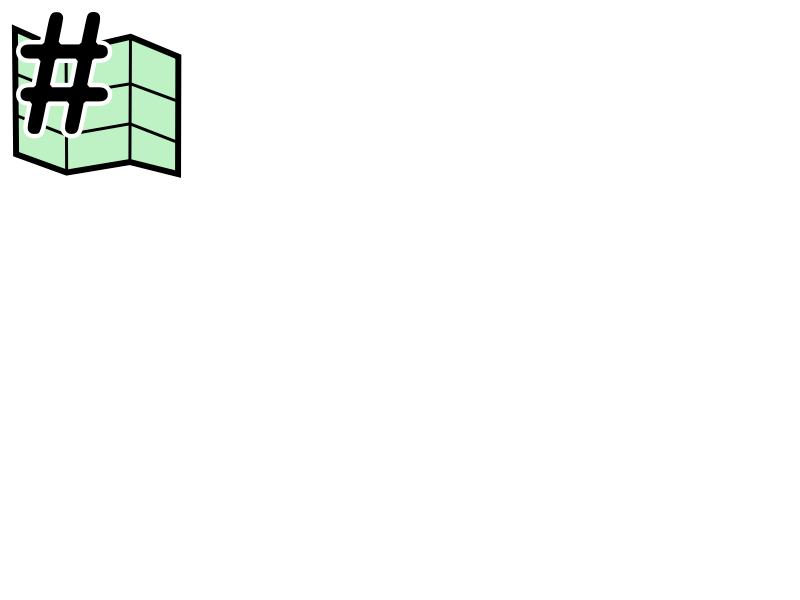
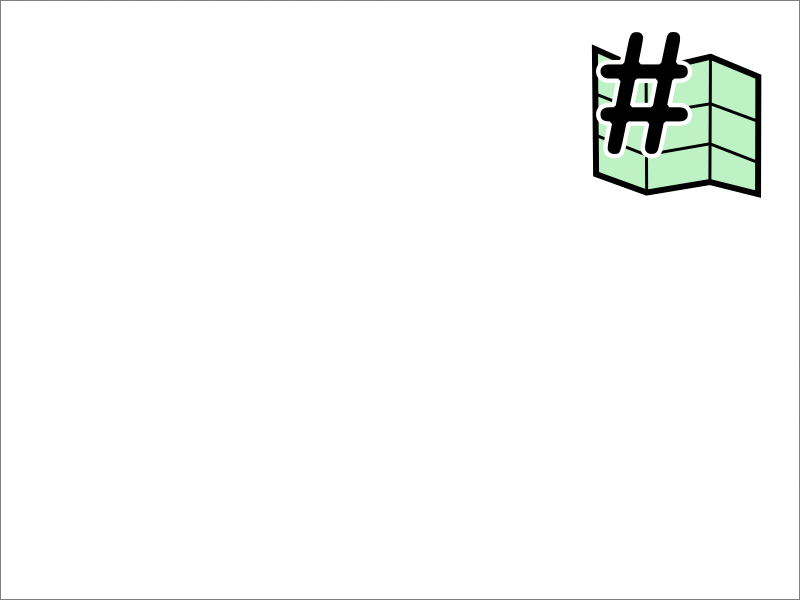
Readme documentation part 2

Changed region(s): [[0.0, 0.0, 0.25, 0.3], [0.7188, 0.06, 0.9688, 0.33], [0.0, 0.99, 1.0, 1.0]]

diff --git a/README.md b/README.md
@@ -5,19 +5,19 @@ The  [Open Street Map](https://openstreetmap.org) is an amazing resource and has
 
 Maybe its just the cartography bug in me, but I have often thought to myself &ldquo;I want to quickly make a map of all `X` in `area`.&rdquo;
 
-Whilst I was aware other tools exist for this purpose none immediately fit my purpose or weren't available to use instantly. They required some level of setup or othwise weren't as convenient as a web app.
+Whilst I was aware other tools exist for this purpose none immediately fit my purpose or weren't available to use instantly. They required some level of setup or otherwise weren't as convenient as a web app.
 
 ## Limitations
 
-There are many limitiations of this system compared to more sophisticated renderers such as the standard Mapnik and it's cousins.
+There are many limitations of this system compared to more sophisticated renderers such as the standard Mapnik and it's cousins.
 
-There are no methods of transitioning from one element to another. Nicer renderes have smooth transitions from one highway type to another for example.
+There are no methods of transitioning from one element to another. Nicer renderers have smooth transitions from one highway type to another for example.
 
 Text on a path - not yet.
 
 Each new style rule effectively creates a new layer. There are no other ways to "stack" or alter the relative z position of drawn elements.
 
-Enclosed areas. You can't use one feature to specify the bounds of another yet. Either by clipping or specifiying search area.
+Enclosed areas. You can't use one feature to specify the bounds of another yet. Either by clipping or specifying search area.
 
 Coastlines are special. They need special treatment and I haven't done it yet. Don't expect oceans to be blue.
 
@@ -32,17 +32,17 @@ Coastlines are special. They need special treatment and I haven't done it yet. D
 
 ## Future Plans
 
-Possibly an SVG renderer woudn't be too hard to implement.
+Possibly an SVG renderer wouldn't be too hard to implement.
 
 # Reference Documentation
 
 ## Principal of Operation and Relation to CSS
 
-The contents and style of a generated map are specified in a bespoke sytle script reminiscent of CSS.
+The contents and style of a generated map are specified in a bespoke style script reminiscent of CSS.
 
-It's important to note however, that is direct oppostion to the notorious Cascading Style Sheets this script is not cascading.
+It's important to note however, that in direct opposition to the notorious Cascading Style Sheets this script is not cascading.
 
-Every rule essentially specifies a new drawing instruction. It's not possible to setup some shared property near the beginning of the script and expect it to still be in effect for a matching element later. Each rule is isolated with its own state which is reset between rules.
+Every rule specifies zero or more new drawing instructions. It's not possible to set up some shared property near the beginning of the script and expect it to still be in effect for a matching element later. Each rule is isolated with its own state which is reset between rules.
 
 ### Example
 
@@ -79,7 +79,9 @@ type[tag=value]:pseudoClass(params)::pseudoElement
 
 There are no such things as regular classes (`.class`) in this language.
 
-Currently it's not possible to omit the type but that should be possible in the future.
+IDs (`#id`) are not currently implemented but should definitely be possible even if they would presumably have limited usefulness.
+
+*Note: Currently it's not possible to omit the type but that should be possible in the future.*
 
 ### Element Types
 
@@ -101,7 +103,7 @@ node {
 
 #### `way`
 
-Used to fetch and render OSM ways. It will render Line features first. Point features are rendered at the mid-point along the line.
+Used to fetch and render OSM ways. It will render Line features. Then any Point features are rendered at the mid-point along the line.
 
 ```css
 way {
@@ -116,11 +118,11 @@ way {
 
 #### `area`
 
-Areas don't really exist in the OSM world. Instead they are implemented as ways which are optionally self-closing.
+Areas don't really exist in the OSM world. Instead they are implemented as self-closing ways.
 
-However they are treated specially in Map Maker. Even if the way isn't specifically self-closing they will be forced to be when rendering.
+However they are treated specially in Map Maker. Even if the underlying OSM way isn't explicitly self-closing it will be forced closed when rendering on Map Maker with the `area` type.
 
-Areas are rendered as Area features and and Point features are rendered at the centre of the bounding box. Note this is different from plain ways.
+Areas are rendered as Area features and Point features are rendered at the centre of the bounding box. Note this is different from how non-area ways are rendered.
 
 ```css
 area:is(self-closing) {
@@ -137,7 +139,7 @@ area:is(self-closing) {
 
 Relations are often used to render areas with holes.
 
-*Note: relation rendering is currently not perfect. It works best for simple relations with an outer way going anti-clockwise and and inner way going clockwise. Unfortunately not all relations in the database were created this way so a smarter rendering algorithm is needed in the future.*
+*Note: relation rendering is currently not perfect. It works best for simple relations with an outer way going anti-clockwise and an inner way going clockwise. Unfortunately not all relations in the database were created this way so a smarter rendering algorithm is needed in the future.*
 
 ```css
 rel[natural=water] {
@@ -147,22 +149,24 @@ rel[natural=water] {
 
 <figure>
 <img src="https://raw.githubusercontent.com/IJMacD/map-maker/master/docs/img/relations.png" height="300" width="400" />
-<figcaption>Relation demonstrating area with holes.</figcaption>
+<figcaption>Relation example demonstrating area with holes.</figcaption>
 </figure>
 
 #### `map`
 
-*This is sort of a pseudo-type. This is not an OSM feature and only exists on map Maker.*
-
 `map` refers to the whole canvas and can be used to add background fills for example. It renders as an Area so can also render Point features in the centre of the map.
+
+*This is sort of a pseudo-type. This is not an OSM feature and only exists on Map Maker.*
 
 ```css
 map {
     fill: bisque;
     stroke: lightseagreen;
-    stroke-width: 20;
+    stroke-width: 20px;
 }
 ```
+
+*Note: The centre of the stroke runs along the exact edge of the map so only half is visible and the other half is off canvas. Therefore to get a 10px border you need a stroke width of 20px.*
 
 <figure>
 <img src="https://raw.githubusercontent.com/IJMacD/map-maker/master/docs/img/bisque.png" height="300" width="400" />
@@ -170,9 +174,9 @@ map {
 </figure>
 
 #### `current`
-*This is sort of a pseudo-type. This is not an OSM feature and only exists on map Maker.*
-
 Provided the user permits, this will render a Point feature at the geolocation provided by the user's browser.
+
+*This is sort of a pseudo-type. This is not an OSM feature and only exists on Map Maker.*
 
 ```css
 way {
@@ -190,13 +194,18 @@ current {
 </figure>
 
 #### `dummy`
-*This is sort of a pseudo-type. This is not an OSM feature and only exists on map Maker.*
-
 Add arbitrary Point features to the map canvas.
 
+*This is sort of a pseudo-type. This is not an OSM feature and only exists on Map Maker.*
+
 ```css
+map {
+    stroke: black;
+    stroke-width: 2px;
+}
 dummy {
     icon: url(https://ijmacd.github.io/map-maker/logo192.png);
+    transform: translate(290px, 10px);
 }
 ```
 
@@ -207,7 +216,131 @@ dummy {
 
 ### Tags
 
+None of the nodes, ways and relations in OSM intrinsically have any meaning. They are given meaning with many different tags by the numerous contributors to OSM. You can check which tags are available at the [OpenStreetMap Wiki](https://wiki.openstreetmap.org/wiki/Map_Features).
+
+Tags are the primary way to select which data to display on your map.
+
+#### Individual Tags
+Tags are specified in square brackets after the element type. They are all key-value pairs separated by an equals character.
+
+```css
+area[building=yes] {
+    stroke: 1px maroon;
+    fill: pink;
+}
+way[highway=residential] {
+    stroke: 3px lightgrey;
+}
+way[highway=secondary] {
+    stroke: 4px orange;
+}
+```
+
+<figure>
+<img src="https://raw.githubusercontent.com/IJMacD/map-maker/master/docs/img/residential.png" height="300" width="400" />
+<figcaption>Tags specify which features to render.</figcaption>
+</figure>
+
+
+#### Combining Tags
+Tags can be combined to increase specificity
+```css
+way[railway=rail][frequency=0] {
+    stroke: 0.1px red;
+}
+way[railway=rail][frequency=50] {
+    stroke: 0.1px blue;
+}
+```
+
+<figure>
+<img src="https://raw.githubusercontent.com/IJMacD/map-maker/master/docs/img/railway-frequency.png" height="300" width="400" />
+<figcaption>AC vs. DC electrification in southern England.</figcaption>
+</figure>
+
+#### Tag Inequalities
+
+*Not supported yet. But hopefully soon.*
+
+```css
+way[railway=rail][frequency=0] {
+    stroke: 0.1px red;
+}
+way[railway=rail][frequency>0] {
+    stroke: 0.1px blue;
+}
+```
+
+#### Wildcard Tags
+
+*Also not supported yet. Again hopefully soon.*
+
+```css
+way[highway=*] {
+    stroke: 0.1px black;
+}
+```
+
 ### Pseudo Classes
+Pseudo classes can further increase specificity using derived data.
+
+#### `:is()`
+
+This pseudo class tests whether or not the area* matches the given parameter.
+
+**All currently implemented parameters only apply to areas.*
+
+Implemented parameters:
+
+* `convex` - Geometrically convex. i.e. a polygon with all interior angles less than 180°
+* `concave` - Geometrically not convex i.e. at least one interior angle is more than 180°.
+* `anti-clockwise` - Areas can be defined with points travelling clockwise or anti-clockwise. To calculate the area of a polygon we can use cross products of neighbouring edges. Anti-clockwise definition gives a positive area.
+* `clockwise` - Clockwise gives a negative area - effectively looking at the "back" of the shape.
+* `self-closing` - Tests whether or not the last node is exactly the same node as the first one.
+
+```css
+area[building=yes]:is(clockwise) {
+    fill: lightblue;
+}
+area[building=yes]:is(anti-clockwise) {
+    fill: pink;
+}
+```
+
+<figure>
+<img src="https://raw.githubusercontent.com/IJMacD/map-maker/master/docs/img/clockwise.png" height="300" width="400" />
+<figcaption>Some buildings are drawn "backwards".</figcaption>
+</figure>
+
+#### `:has()`
+
+Tests some property of the way or area.
+
+Implemented properties*:
+
+* `area` - Area enclosed by shape. Calculated by the cross-product method but taking the absolute value to ensure positive area.
+* `length` - Overall length of way or area
+* `width` - horizontal width of the bounding box of this shape
+* `height` - horizontal width of the bounding box of this shape
+
+**Currently only has units of pixels or square pixels so is only somewhat useful. Hopefully this will change in the future*
+
+```css
+area[building=yes]:has(area < 1500) {
+    fill: lightblue;
+}
+area[building=yes]:has(1500 <= area < 3000) {
+    fill: lightgreen;
+}
+area[building=yes]:has(area >= 3000) {
+    fill: pink;
+}
+```
+
+<figure>
+<img src="https://raw.githubusercontent.com/IJMacD/map-maker/master/docs/img/area.png" height="300" width="400" />
+<figcaption>Discriminate based on shape area.</figcaption>
+</figure>
 
 ### Pseudo Elements
 
